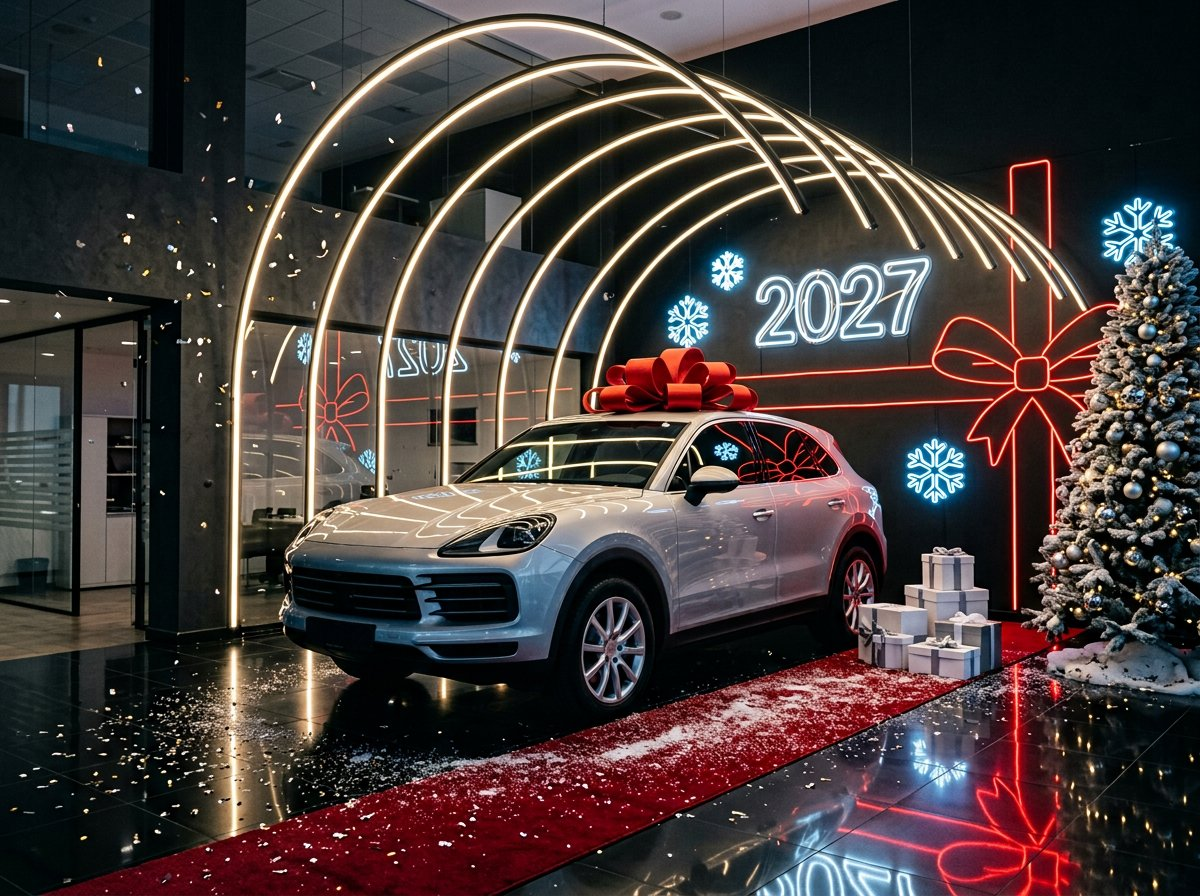
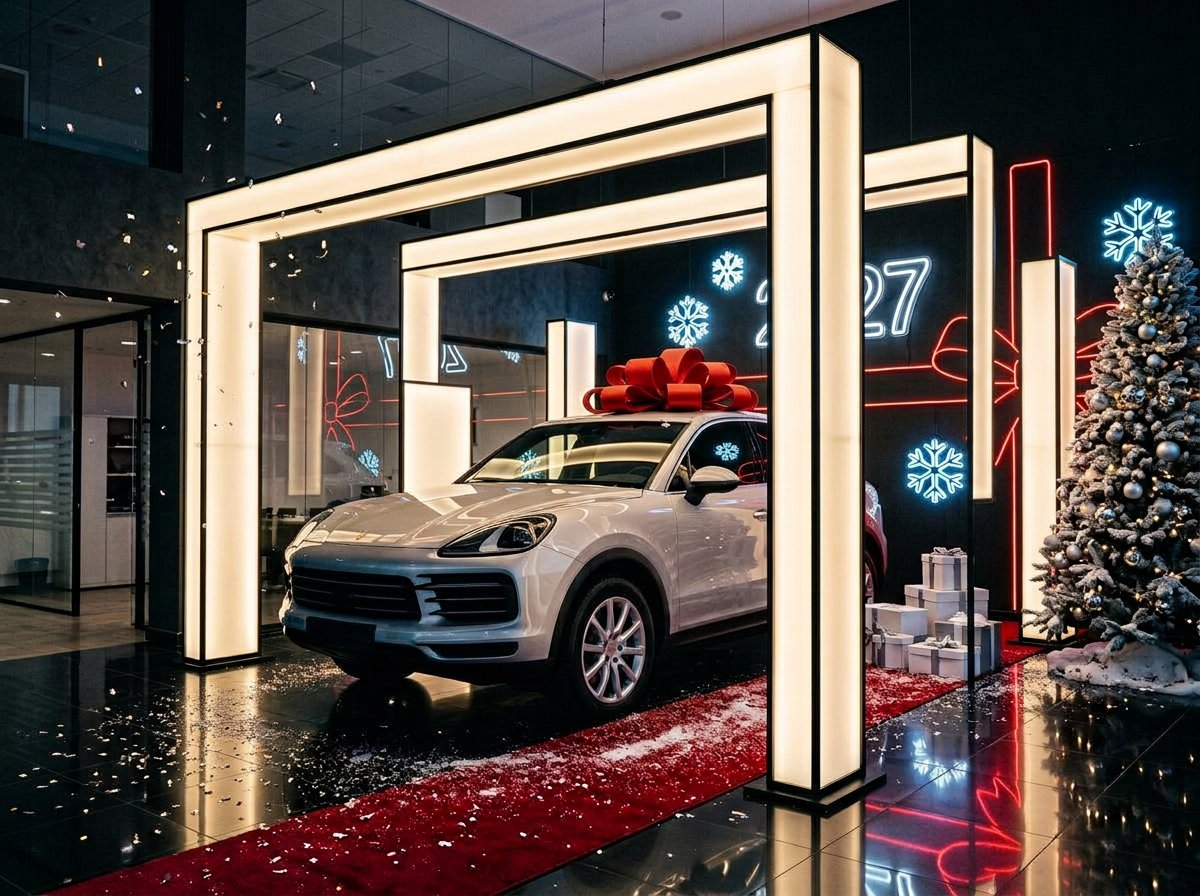
Автосалон: зона выдачи на прямоугольных световых коробах + 3 варианта в том же стиле

diff --git a/visualizations/ny-avtosalon/index.html b/visualizations/ny-avtosalon/index.html
@@ -105,12 +105,13 @@
     Пять зон дилерского центра — от фасада до зоны выдачи — в единой зимней стилистике:
     гибкий неон по контурам, морозный иней, ёлки в белых кашпо, хром и зеркальные шары.
     Комплект собирается как конструктор: можно взять одну зону или весь салон целиком.
+    В зоне выдачи — вариант на <b>прямоугольных световых коробах</b> (без гнутых дуг), плюс три композиции в том же стиле ниже.
   </p>
 
   <div class="zones">
     <span class="pill"><b>01</b> фасад и входная группа</span>
     <span class="pill"><b>02</b> центральный подиум с автомобилем</span>
-    <span class="pill"><b>03</b> зона выдачи / handover</span>
+    <span class="pill"><b>03</b> зона выдачи · световые короба</span>
     <span class="pill"><b>04</b> клиентский лаунж</span>
     <span class="pill"><b>05</b> фотозона для соцсетей</span>
   </div>
@@ -145,15 +146,15 @@
     </article>
 
     <article class="card">
-      <button class="shot" data-src="sm-ny-avtosalon-delivery-zone.jpg" data-cap="Зона 03 · выдача автомобиля">
-        <img src="sm-ny-avtosalon-delivery-zone.jpg" alt="Новогодняя зона выдачи автомобиля: тоннель неоновых арок, неоновая лента-подарок, надпись 2027, ёлка, красная дорожка" />
+      <button class="shot" data-src="sm-ny-avtosalon-delivery-zone.jpg" data-cap="Зона 03 · выдача автомобиля (прямоугольные световые короба)">
+        <img src="sm-ny-avtosalon-delivery-zone.jpg" alt="Новогодняя зона выдачи автомобиля: прямоугольные световые короба-порталы, неоновая лента-подарок, надпись 2027, ёлка, красная дорожка" />
       </button>
       <div class="body">
         <p class="kicker">зона 03 · handover</p>
         <h2>Зона выдачи автомобиля</h2>
-        <div class="row"><b>Что делаем</b><span>Тоннель из неоновых арок, неоновая лента-подарок с бантом в масштабе всей зоны, светящаяся надпись «2027», красная дорожка с искусственным снегом и конфетти.</span></div>
+        <div class="row"><b>Что делаем</b><span>Портал из прямоугольных световых коробов — две вертикальные стойки и горизонтальная перекладина над автомобилем — плюс дополнительные светящиеся панели за машиной. Неоновая лента-подарок, надпись «2027», красная дорожка с искусственным снегом и конфетти.</span></div>
         <div class="row"><b>Зачем</b><span>Клиент забирает машину как подарок — и сам снимает это на видео. Готовый контент для соцсетей дилера без отдельной съёмки.</span></div>
-        <div class="chips"><span class="chip">неон-тоннель</span><span class="chip">световая лента</span><span class="chip">красная дорожка</span><span class="chip">фото-точка для клиента</span></div>
+        <div class="chips"><span class="chip">световые короба</span><span class="chip">портал 90°</span><span class="chip">красная дорожка</span><span class="chip">фото-точка для клиента</span></div>
         <p class="price">Ориентир по зоне: <b>от 240 000 ₽</b></p>
       </div>
     </article>
@@ -187,6 +188,59 @@
     </article>
   </div>
 
+  <section class="spec" style="border-top:0;padding-top:56px">
+    <h2 style="font-size:1.5rem">Световые короба: 3 варианта в том же стиле</h2>
+    <p>
+      Прямоугольные световые короба — то, что мы делаем сами и на своём оборудовании: алюминиевый профиль, фрезерованные
+      углы 90°, светорассеивающий акрил, LED-лента 3000 K с равномерной засветкой. Никаких гнутых дуг — сборка секциями,
+      удобно перевозить и хранить до следующего сезона.
+    </p>
+  </section>
+
+  <div class="grid">
+    <article class="card">
+      <button class="shot" data-src="sm-ny-avtosalon-lightbox-portal.jpg" data-cap="Вариант A · световой портал из коробов">
+        <img src="sm-ny-avtosalon-lightbox-portal.jpg" alt="Световой портал из прямоугольных коробов над автомобилем в зоне выдачи" />
+      </button>
+      <div class="body">
+        <p class="kicker">вариант a · портал</p>
+        <h2>Коридор + перекладина</h2>
+        <div class="row"><b>Состав</b><span>8 вертикальных стоек-коробов по бокам, три горизонтальных короба под потолком, две широкие светящиеся панели за автомобилем.</span></div>
+        <div class="row"><b>Эффект</b><span>Машина «входит» в кадр как на подиуме: ровный тёплый свет без теней, идеально для видео и фото на телефон.</span></div>
+        <div class="chips"><span class="chip">8 стоек</span><span class="chip">3 перекладины</span><span class="chip">2 панели</span></div>
+        <p class="price">Ориентир: <b>от 260 000 ₽</b></p>
+      </div>
+    </article>
+
+    <article class="card">
+      <button class="shot" data-src="sm-ny-avtosalon-lightbox-ribbon.jpg" data-cap="Вариант B · короба-лента с бантом">
+        <img src="sm-ny-avtosalon-lightbox-ribbon.jpg" alt="Стена из световых коробов в виде подарочной ленты с бантом, автомобиль с красным бантом" />
+      </button>
+      <div class="body">
+        <p class="kicker">вариант b · лента и бант</p>
+        <h2>Подарочная лента на стене</h2>
+        <div class="row"><b>Состав</b><span>Длинные тонкие короба, собранные в крест как подарочная лента, с бантом из тех же профилей, плюс подвесной прямоугольный короб-рама над машиной.</span></div>
+        <div class="row"><b>Эффект</b><span>Самый «новогодний» из вариантов: композиция читается как огромная упаковка, за спиной у клиента в момент вручения ключей.</span></div>
+        <div class="chips"><span class="chip">тонкий профиль</span><span class="chip">бант из коробов</span><span class="chip">подвесная рама</span></div>
+        <p class="price">Ориентир: <b>от 230 000 ₽</b></p>
+      </div>
+    </article>
+
+    <article class="card">
+      <button class="shot" data-src="sm-ny-avtosalon-lightbox-colonnade.jpg" data-cap="Вариант C · колоннада и парящие короба">
+        <img src="sm-ny-avtosalon-lightbox-colonnade.jpg" alt="Колоннада световых коробов вдоль стен и парящие короба под потолком в автосалоне" />
+      </button>
+      <div class="body">
+        <p class="kicker">вариант c · вход и тест-драйв</p>
+        <h2>Колоннада и парящие короба</h2>
+        <div class="row"><b>Состав</b><span>Ритм вертикальных коробов вдоль обеих стен (тёплый / холодный вперемешку), парящие короба под потолком на разной высоте, широкая светящаяся панель с надписью и плоские снежинки из подсвеченного акрила на стенах.</span></div>
+        <div class="row"><b>Эффект</b><span>Работает на проходных зонах: гости идут по световому коридору к автомобилю — отличная точка для съёмки тест-драйвов.</span></div>
+        <div class="chips"><span class="chip">колоннада</span><span class="chip">парящие короба</span><span class="chip">акриловые снежинки</span><span class="chip">световая панель с текстом</span></div>
+        <p class="price">Ориентир: <b>от 210 000 ₽</b></p>
+      </div>
+    </article>
+  </div>
+
   <section class="spec">
     <h2>Как это устроено в производстве</h2>
     <p>
@@ -202,7 +256,7 @@
         <tr><td>Снежинки</td><td>фасад, шоурум, лаунж</td><td>фрезеровка акрила, контурный неон, гравировка, подсветка изнутри</td></tr>
         <tr><td>Подвесное кольцо</td><td>подиум</td><td>гнутый алюминий + неон, подвес на тросах к существующим точкам</td></tr>
         <tr><td>Неоновый арт-объект (ключ, машина)</td><td>фотозона</td><td>контур по эскизу, монтаж на подложку пресс-волла</td></tr>
-        <tr><td>Неон-тоннель и лента</td><td>зона выдачи</td><td>сборный каркас, неон по дуге, быстрый монтаж за одну ночь</td></tr>
+        <tr><td>Световые короба (портал, колоннада, лента)</td><td>зона выдачи, вход, тест-драйв</td><td>алюминиевый профиль, углы 90°, акрил-рассеиватель, LED 3000 K, сборка секциями — монтаж за одну ночь</td></tr>
         <tr><td>Ёлки и гирлянды</td><td>все зоны</td><td>искусственные ёлки в инее, тёплая гирлянда 2700 K, кашпо с подсветкой</td></tr>
       </tbody>
     </table>

diff --git a/visualizations/ny-avtosalon/README.md b/visualizations/ny-avtosalon/README.md
@@ -1,6 +1,6 @@
 # Новогодний декор автосалонов — серия визуализаций
 
-Концепт-визуализации новогоднего оформления дилерского центра по пяти зонам. Задача серии — показать, что праздничный декор можно собрать как конструктор: от одной зоны до всего салона, в единой зимней стилистике и с акцентом на **гибкий неон**.
+Концепт-визуализации новогоднего оформления дилерского центра по пяти зонам. Задача серии — показать, что праздничный декор можно собрать как конструктор: от одной зоны до всего салона, в единой зимней стилистике. Свет — только из того, что мы реально производим: **гибкий неон по контурам** и **прямоугольные световые короба** (никаких гнутых дуг и колец).
 
 Галерея для клиента: `index.html` (автономный файл, открывается в браузере без сборки, с лайтбоксом).
 
@@ -8,9 +8,20 @@
 |------|------|------------|
 | `sm-ny-avtosalon-facade.jpg` | 01 · фасад и входная группа | Трафик с трассы: видно с парковки и из города |
 | `sm-ny-avtosalon-showroom-car.jpg` | 02 · центральный подиум | Главный автомобиль сезона / премьера |
-| `sm-ny-avtosalon-delivery-zone.jpg` | 03 · зона выдачи | Handover как «подарок»: видео и фото от клиента |
+| `sm-ny-avtosalon-delivery-zone.jpg` | 03 · зона выдачи | Handover как «подарок»: портал из прямоугольных световых коробов |
 | `sm-ny-avtosalon-lounge.jpg` | 04 · клиентский лаунж | Ожидание сервиса и сделки, NPS |
 | `sm-ny-avtosalon-photozone.jpg` | 05 · фотозона | UGC и соцсети: тест-драйвы, дни открытых дверей |
+
+### Варианты на световых коробах (без гнутых дуг)
+
+Все световые элементы в этих четырёх кадрах — **прямоугольные световые короба**: алюминиевый профиль, углы 90°, светорассеивающий акрил, LED-лента 3000 K. Дуг, колец и гнутых трубок нет — конструкция изготавливается на своём производстве и собирается секциями.
+
+| Файл | Композиция | Ориентир |
+|------|------------|----------|
+| `sm-ny-avtosalon-delivery-zone.jpg` | Портал: две стойки + перекладина над автомобилем, светящиеся панели в глубине | от 240 000 ₽ |
+| `sm-ny-avtosalon-lightbox-portal.jpg` | Коридор из 8 стоек, 3 короба под потолком, 2 широкие панели за машиной | от 260 000 ₽ |
+| `sm-ny-avtosalon-lightbox-ribbon.jpg` | Подарочная лента и бант, собранные из тонких коробов + подвесная рама | от 230 000 ₽ |
+| `sm-ny-avtosalon-lightbox-colonnade.jpg` | Колоннада вдоль стен (тёплый/холодный), парящие короба, акриловые снежинки | от 210 000 ₽ |
 
 ---
 
@@ -45,7 +56,8 @@
 |------|----------|
 | Фасад и входная группа (комплект с монтажом) | от 480 000 ₽ |
 | Центральный подиум | от 190 000 ₽ |
-| Зона выдачи | от 240 000 ₽ |
+| Зона выдачи (портал из коробов) | от 240 000 ₽ |
+| Световые короба: коридор / лента / колоннада | 210 000 – 260 000 ₽ |
 | Клиентский лаунж | от 120 000 ₽ |
 | Фотозона 4×2,5 м | от 165 000 ₽ |
 | **Весь салон целиком** | **от 1 100 000 ₽** (скидка за комплект и один выезд монтажников) |
